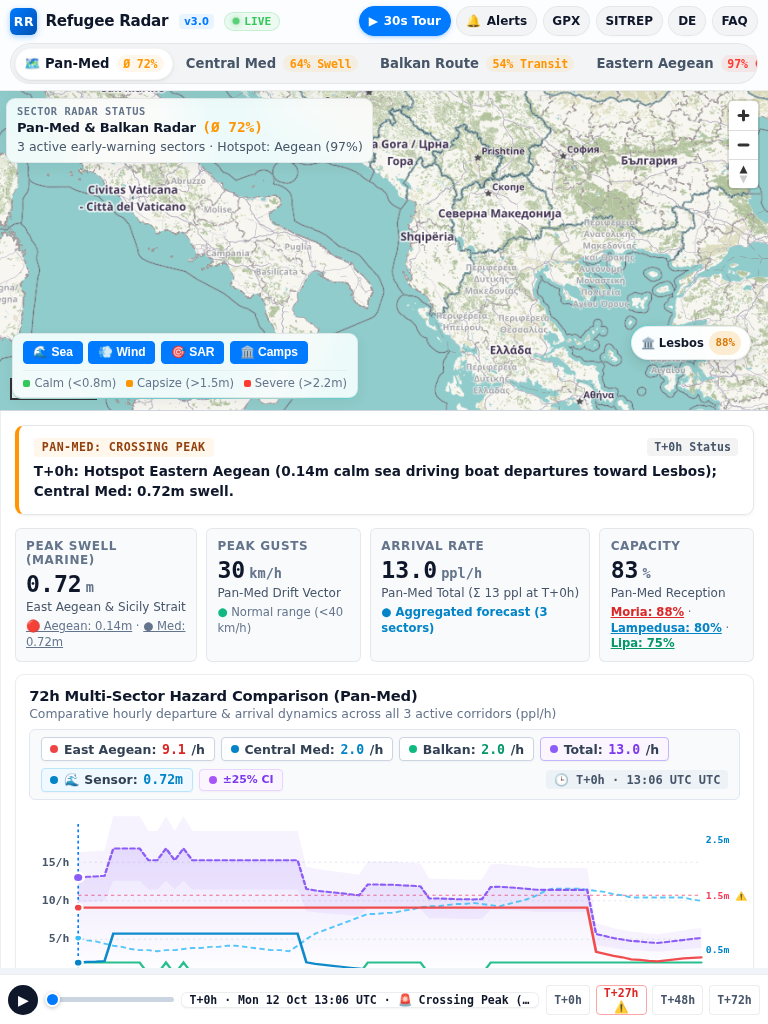
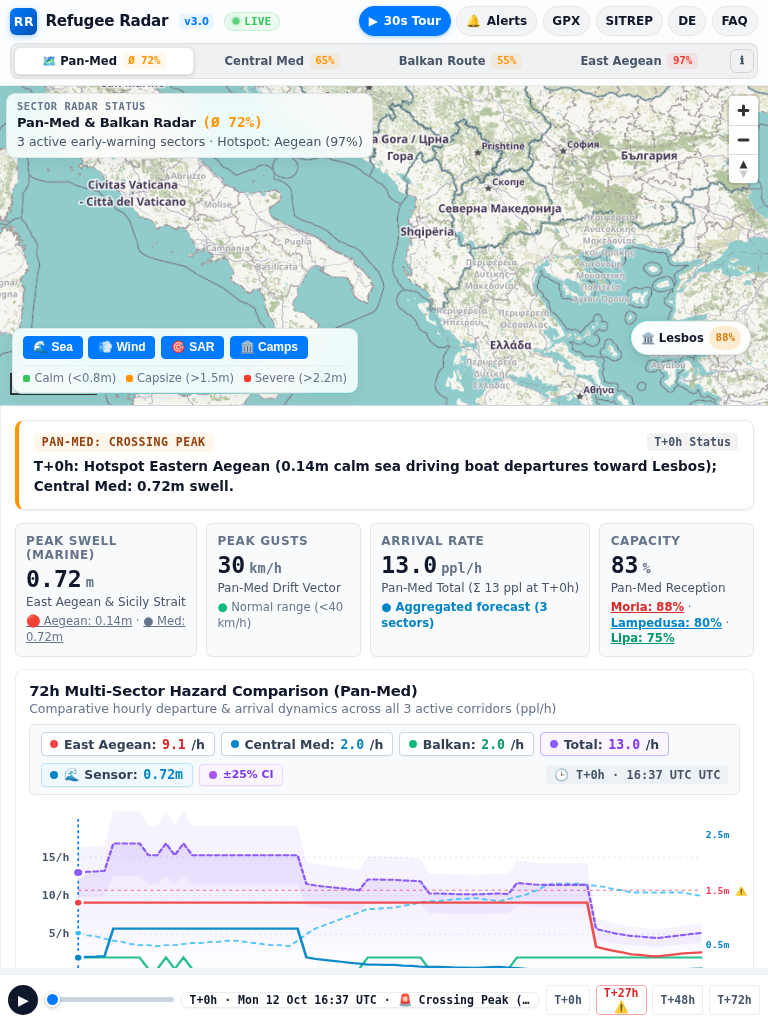
feat(ux): redesign sector switcher into lean macOS segmented button bar
- Upgrade sector tabs to semantic <button> elements with tactile press feedback (:active scale)
- Streamline button labels into compact sector names with colored percentage pills
- Cut horizontal footprint from ~720px down to ~385px (-46% space savings)
- Retain rich operational context (Crossing Peak, Swell, Transit) inside mouse-over tooltips
- Fluid auto-sizing on tablets and mobile without 125px min-width overflow

diff --git a/index.html b/index.html
@@ -168,46 +168,55 @@
       50% { transform: scale(1.3); opacity: 0.7; }
     }
 
-    /* Segmented Sector Switcher Navigation - Relaxed Floating Pill Bar */
+    /* Segmented Sector Switcher Navigation - macOS Precision Button Bar */
     .corridor-bar {
       display: inline-flex;
       align-items: center;
-      background: rgba(0, 0, 0, 0.04);
-      padding: 4px;
-      border-radius: 9999px;
-      border: 1px solid rgba(0, 0, 0, 0.06);
-      gap: 4px;
+      background: rgba(0, 0, 0, 0.05);
+      padding: 3px;
+      border-radius: 8px;
+      border: 1px solid rgba(0, 0, 0, 0.08);
+      box-shadow: inset 0 1px 2px rgba(0, 0, 0, 0.03);
+      gap: 3px;
     }
 
     .corridor-tab {
       display: inline-flex;
       align-items: center;
       justify-content: center;
-      gap: 0.45rem;
-      padding: 0 0.85rem;
-      height: 32px;
-      min-width: 148px;
-      border-radius: 9999px;
+      gap: 0.35rem;
+      padding: 0 0.65rem;
+      height: 28px;
+      border-radius: 6px;
       cursor: pointer;
-      transition: all 0.18s cubic-bezier(0.16, 1, 0.3, 1);
+      transition: all 0.15s cubic-bezier(0.16, 1, 0.3, 1);
       user-select: none;
       white-space: nowrap;
       border: 1px solid transparent;
-      font-size: 0.825rem;
+      font-size: 0.775rem;
       font-weight: 600;
       color: var(--text-secondary);
+      background: transparent;
+      font-family: inherit;
+      outline: none;
     }
 
     .corridor-tab:hover {
-      background: rgba(255, 255, 255, 0.7);
+      background: rgba(255, 255, 255, 0.85);
       color: var(--text-main);
+      border-color: rgba(0, 0, 0, 0.08);
+      box-shadow: 0 1px 3px rgba(0, 0, 0, 0.04);
+    }
+
+    .corridor-tab:active {
+      transform: scale(0.97);
     }
 
     .corridor-tab.active {
       background: #FFFFFF;
       color: var(--text-main);
-      box-shadow: 0 1px 3px rgba(0, 0, 0, 0.08), 0 2px 8px rgba(0, 0, 0, 0.04);
-      border-color: rgba(0, 0, 0, 0.04);
+      box-shadow: 0 1px 4px rgba(0, 0, 0, 0.12), 0 0.5px 1.5px rgba(0, 0, 0, 0.06);
+      border-color: rgba(0, 0, 0, 0.09);
       font-weight: 700;
     }
 
@@ -221,11 +230,11 @@
       display: inline-flex;
       align-items: center;
       gap: 0.2rem;
-      font-size: 0.725rem;
+      font-size: 0.68rem;
       font-family: var(--font-mono);
       font-weight: 700;
-      padding: 0.1rem 0.4rem;
-      border-radius: 9999px;
+      padding: 0.08rem 0.35rem;
+      border-radius: 4px;
       letter-spacing: -0.01em;
     }
 
@@ -234,23 +243,24 @@
       display: inline-flex;
       align-items: center;
       justify-content: center;
-      width: 26px;
-      height: 26px;
-      border-radius: 50%;
+      width: 24px;
+      height: 24px;
+      border-radius: 6px;
       background: transparent;
-      border: 1px solid rgba(0, 0, 0, 0.15);
+      border: 1px solid rgba(0, 0, 0, 0.12);
       color: var(--text-secondary);
-      font-size: 0.725rem;
+      font-size: 0.7rem;
       font-weight: 700;
       cursor: pointer;
-      margin-left: 0.2rem;
+      margin-left: 1px;
       transition: all 0.15s ease;
     }
 
     .index-info-btn:hover {
-      background: var(--text-main);
-      color: #FFFFFF;
-      border-color: var(--text-main);
+      background: #FFFFFF;
+      color: var(--accent-blue);
+      border-color: var(--accent-blue);
+      box-shadow: 0 1px 3px rgba(0, 0, 0, 0.05);
     }
 
     /* Nav Action Buttons - Relaxed Pill Shape */
@@ -1239,8 +1249,8 @@
         display: none;
       }
       .corridor-tab {
-        min-width: 124px;
-        padding: 0.25rem 0.5rem;
+        min-width: auto;
+        padding: 0 0.5rem;
       }
       .nav-actions {
         flex-shrink: 0;
@@ -1284,8 +1294,10 @@
         display: none;
       }
       .corridor-tab {
-        min-width: 125px;
-        flex-shrink: 0;
+        min-width: auto;
+        flex: 1 1 auto;
+        padding: 0 0.4rem;
+        font-size: 0.725rem;
       }
       .nav-actions {
         order: 2;
@@ -2425,45 +2437,43 @@
         : (hotspotCorridor.id === 'aegean_east' ? 'Aegean' : (hotspotCorridor.id === 'central_med' ? 'Central Med' : 'Balkan'));
 
       const overviewHtml = `
-        <div class="corridor-tab ${allActive}" onclick="selectCorridor('all')" title="${isDe ? `Pan-Med Radar: Ø ${avgRisk}% Frühwarn-Index · Brennpunkt: ${hotspotName} (${maxRisk}%)` : `Pan-Med Radar: Avg ${avgRisk}% Composite Risk · Hotspot: ${hotspotName} (${maxRisk}%)`}">
-          <span class="c-title">🗺 ${isDe ? 'Pan-Med' : 'Pan-Med'}</span>
+        <button type="button" class="corridor-tab ${allActive}" onclick="selectCorridor('all')" title="${isDe ? `[Taste 1] Pan-Med Gesamtübersicht: Ø ${avgRisk}% Frühwarn-Index · Brennpunkt: ${hotspotName} (${maxRisk}%)` : `[Key 1] Pan-Med Overview: Avg ${avgRisk}% Risk · Hotspot: ${hotspotName} (${maxRisk}%)`}">
+          <span class="c-title">🗺 Pan-Med</span>
           <span class="c-risk-badge" style="background:${avgRiskBg}; color:${avgRiskColor};">Ø ${avgRisk}%</span>
-        </div>
+        </button>
       `;
 
-      const tabsHtml = liveState.corridors.map(c => {
+      const tabsHtml = liveState.corridors.map((c, idx) => {
         const activeClass = c.id === selectedCorridorId ? 'active' : '';
         const riskColor = c.risk_score > 75 ? 'var(--accent-red)' : (c.risk_score > 50 ? 'var(--accent-amber)' : 'var(--accent-green)');
         const riskBg = c.risk_score > 75 ? 'var(--accent-red-light)' : (c.risk_score > 50 ? 'var(--accent-amber-light)' : 'var(--accent-green-light)');
+        const keyNum = idx + 2;
         
         let title = c.short_name || c.name;
         let riskLabel = `${c.risk_score}%`;
-        let tooltip = isDe ? `Frühwarn-Index: ${c.risk_score}/100` : `Early-warning index: ${c.risk_score}/100`;
+        let tooltip = isDe ? `[Taste ${keyNum}] ${title}: ${c.risk_score}% Risiko-Index` : `[Key ${keyNum}] ${title}: ${c.risk_score}% Risk Index`;
 
         if (c.id === 'aegean_east') {
-          title = isDe ? 'Ost-Ägäis' : 'Eastern Aegean';
-          riskLabel = isDe ? `${c.risk_score}% Überfahrt-Peak` : `${c.risk_score}% Crossing Peak`;
-          tooltip = isDe ? `Ost-Ägäis: ${c.risk_score}% Überfahrten-Spitze (Ruhige See begünstigt Überfahrten nach Lesbos)` : `East Aegean: ${c.risk_score}% Crossing Peak (Calm sea triggers boat crossings to Lesbos)`;
+          title = isDe ? 'Ost-Ägäis' : 'East Aegean';
+          tooltip = isDe ? `[Taste 4] Ost-Ägäis: ${c.risk_score}% Überfahrt-Peak (Ruhige See begünstigt Überfahrten nach Lesbos)` : `[Key 4] East Aegean: ${c.risk_score}% Crossing Peak (Calm sea triggers boat crossings to Lesbos)`;
         } else if (c.id === 'central_med') {
           title = isDe ? 'Zentr. Med' : 'Central Med';
-          riskLabel = isDe ? `${c.risk_score}% Seegang` : `${c.risk_score}% Swell`;
-          tooltip = isDe ? `Zentrales Mittelmeer: ${c.risk_score}% Seegangs- & Kentergefahr (SAR-Wachsamkeit)` : `Central Med: ${c.risk_score}% Swell & Capsize Risk (SAR readiness)`;
+          tooltip = isDe ? `[Taste 2] Zentrales Mittelmeer: ${c.risk_score}% Seegang & Kentergefahr (SAR-Wachsamkeit)` : `[Key 2] Central Med: ${c.risk_score}% Swell & Capsize Risk (SAR readiness)`;
         } else if (c.id === 'balkan_land') {
           title = isDe ? 'Balkan' : 'Balkan Route';
-          riskLabel = isDe ? `${c.risk_score}% Transit` : `${c.risk_score}% Transit`;
-          tooltip = isDe ? `Balkan-Route: ${c.risk_score}% Transit-Risiko (Gebirgspass-Windchill & Flusspegel)` : `Balkan: ${c.risk_score}% Transit Risk (Mountain pass & river flood)`;
+          tooltip = isDe ? `[Taste 3] Balkan-Route: ${c.risk_score}% Transit-Risiko (Gebirgspass-Windchill & Flusspegel)` : `[Key 3] Balkan: ${c.risk_score}% Transit Risk (Mountain pass & river flood)`;
         }
 
         return `
-          <div class="corridor-tab ${activeClass}" onclick="selectCorridor('${c.id}')" title="${tooltip}">
+          <button type="button" class="corridor-tab ${activeClass}" onclick="selectCorridor('${c.id}')" title="${tooltip}">
             <span class="c-title">${title}</span>
             <span class="c-risk-badge" style="background:${riskBg}; color:${riskColor};">${riskLabel}</span>
-          </div>
+          </button>
         `;
       }).join('');
 
       const infoBtnHtml = `
-        <button class="index-info-btn" onclick="openRiskExplainerModal()" title="${isDe ? 'Was bedeuten diese Prozentwerte? (Hier klicken)' : 'What do these percentages mean? (Click here)'}">
+        <button type="button" class="index-info-btn" onclick="openRiskExplainerModal()" title="${isDe ? 'Was bedeuten diese Prozentwerte? (Hier klicken)' : 'What do these percentages mean? (Click here)'}">
           ℹ
         </button>
       `;
